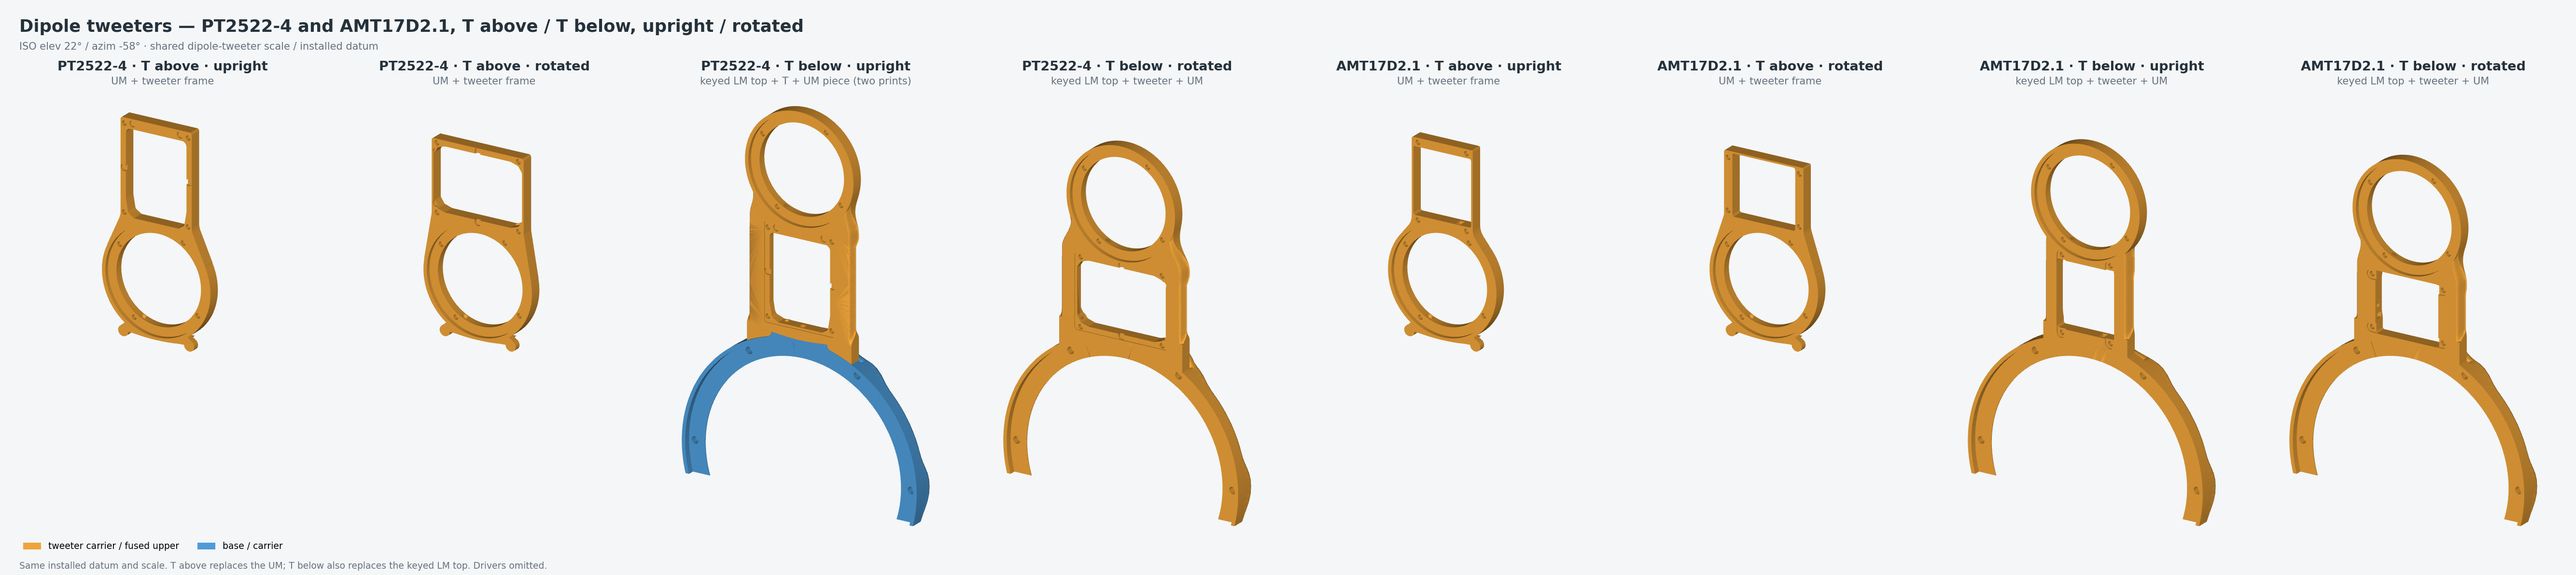
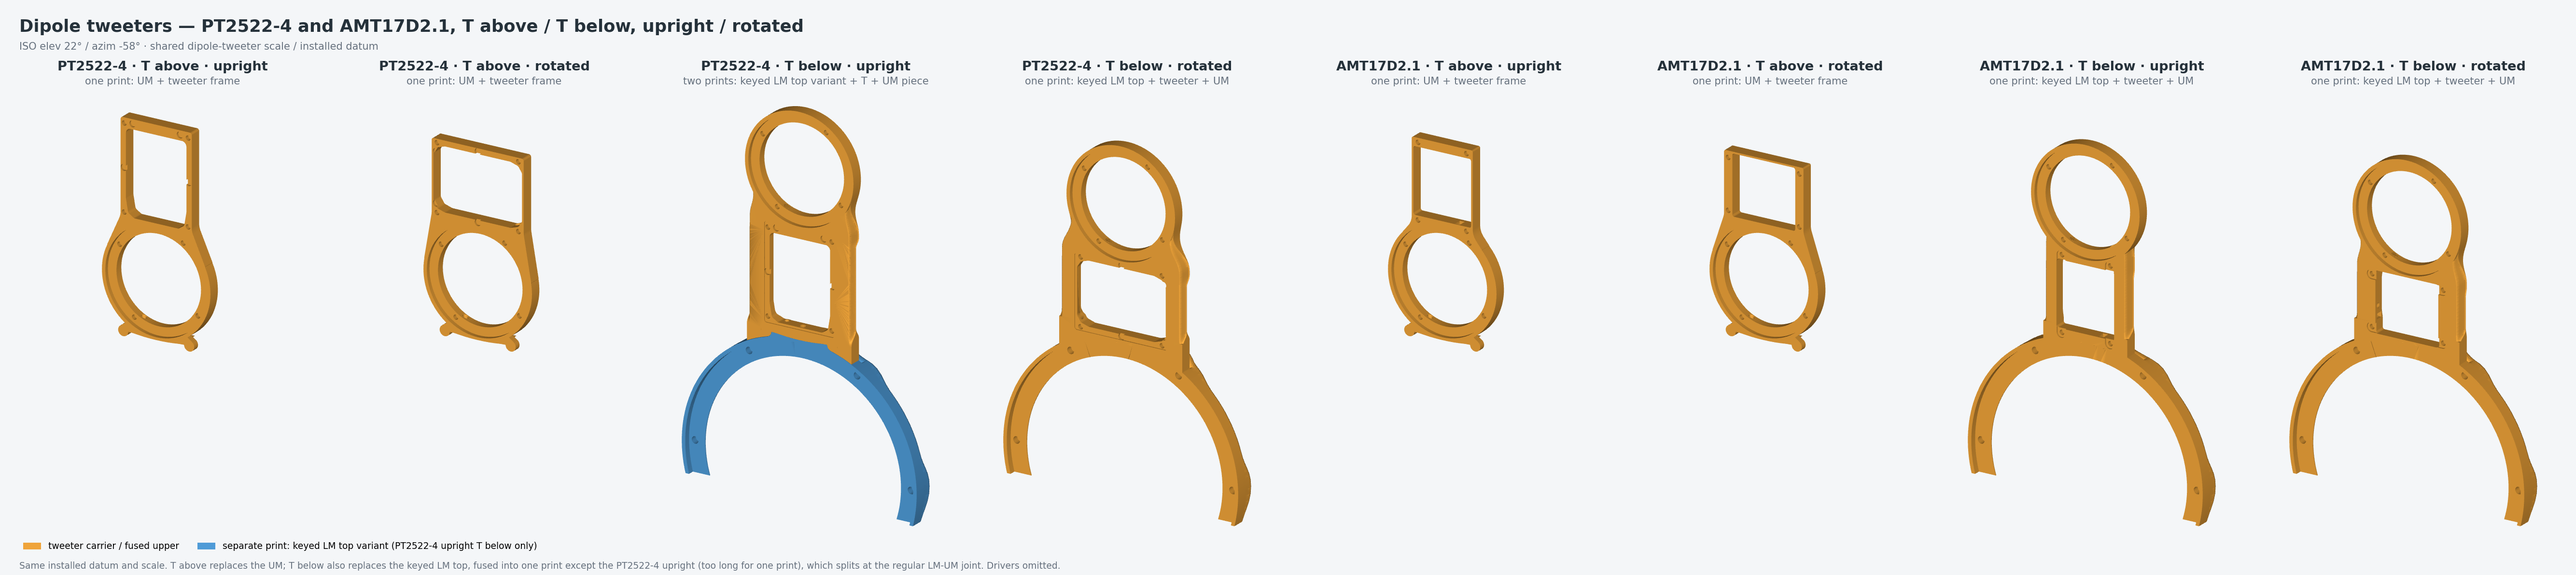
Label the PT2522-4 pair's keyed LM top as a separate print in the dipole row
The dipole row's legend called the pair's keyed LM top variant "base /
carrier". It now gets its own legend role (separate print, PT2522-4
upright T below only). Each panel says one print or two prints, and the
footnote explains that only the PT2522-4 upright T below splits at the
regular LM-UM joint.

diff --git a/top_baffle_v2/scripts/gen_product_iso_matrix.py b/top_baffle_v2/scripts/gen_product_iso_matrix.py
@@ -108,6 +108,7 @@ ROLE_COLORS = {
     "base": "#4f9bd7",
     "top": "#efa43a",
     "perimeter": "#62b77b",
+    "second_print": "#4f9bd7",
 }
 
 # Display-space frames.  `span` is `(dx, dy, dz)` in millimetres and is what
@@ -207,7 +208,7 @@ def _dipole_parts(family: str, layout: str, orientation: str) -> tuple[tuple[str
     """The print(s) of one dipole layout; the PT2522-4 upright T below is two prints (keyed LM top + T + UM piece)."""
     stem = f"h2c_{family}_obiwan_{layout}_{orientation}"
     if family == PT2522 and (layout, orientation) == ("t_below", "upright"):
-        return (("base", h2c_stl(stem + "_lm_top")), ("top", h2c_stl(stem + "_um_t")))
+        return (("second_print", h2c_stl(stem + "_lm_top")), ("top", h2c_stl(stem + "_um_t")))
     return (("top", h2c_stl(stem)),)
 
 
@@ -216,9 +217,9 @@ def _dipole_cells() -> tuple[dict, ...]:
     for family, slug, label in DIPOLE_DRIVERS:
         for layout, orientation in DIPOLE_LAYOUTS:
             where = "T above" if layout == "t_above" else "T below"
-            note = ("UM + tweeter frame" if layout == "t_above" else
-                    "keyed LM top + T + UM piece (two prints)" if (family, orientation) == (PT2522, "upright") else
-                    "keyed LM top + tweeter + UM")
+            note = ("one print: UM + tweeter frame" if layout == "t_above" else
+                    "two prints: keyed LM top variant + T + UM piece" if (family, orientation) == (PT2522, "upright") else
+                    "one print: keyed LM top + tweeter + UM")
             cells.append(_cell(f"dipole_{slug}_{layout}_{orientation}", f"{label} dipole — {where}, {orientation}",
                                f"{label} · {where} · {orientation}", "dipole",
                                _dipole_parts(family, layout, orientation), note=note, family=family))
@@ -425,7 +426,8 @@ ROWS = (
         "title": "Dipole tweeters — PT2522-4 and AMT17D2.1, T above / T below, upright / rotated",
         "cells": tuple(f"dipole_{slug}_{layout}_{orientation}" for _, slug, _ in DIPOLE_DRIVERS
                        for layout, orientation in DIPOLE_LAYOUTS),
-        "geometry_note": "Same installed datum and scale. T above replaces the UM; T below also replaces the keyed LM top. Drivers omitted.",
+        "geometry_note": ("Same installed datum and scale. T above replaces the UM; T below also replaces the keyed LM top, fused into one "
+                          "print except the PT2522-4 upright (too long for one print), which splits at the regular LM-UM joint. Drivers omitted."),
     },
     {
         "key": "obiwan_wing_row",
@@ -440,6 +442,7 @@ ROLE_LEGEND = {
     "base": "base / carrier",
     "top": "tweeter carrier / fused upper",
     "perimeter": "optional perimeter",
+    "second_print": "separate print: keyed LM top variant (PT2522-4 upright T below only)",
 }
 
 # Rows live one level down so `images/generated/iso/*.png` stays exactly the
